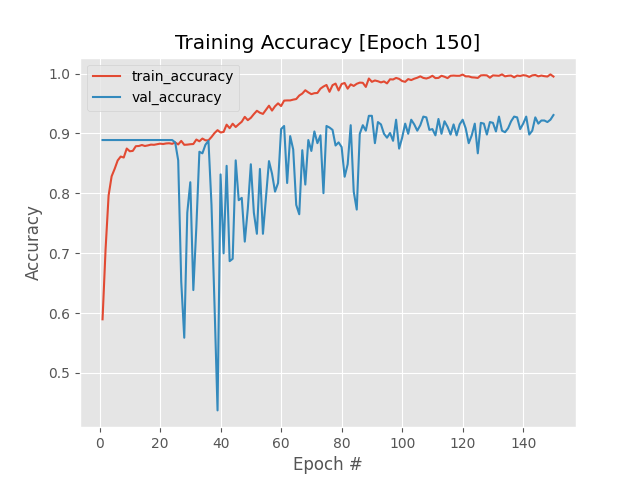
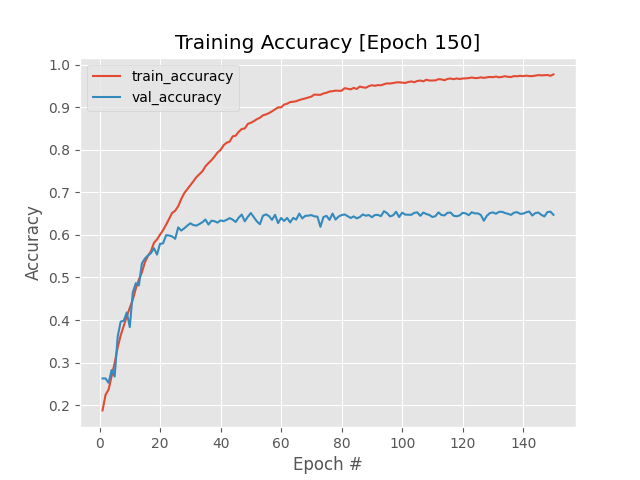
fix: 7 classes

diff --git a/trainingfacialexpression.py b/trainingfacialexpression.py
@@ -43,7 +43,7 @@ data = data.astype("float") / 255.0
 
 # convert the labels from integers to vectors
 le = LabelEncoder().fit(labels)
-labels = to_categorical(le.transform(labels), 2)                  #分类数要改！！！！！！！！！
+labels = to_categorical(le.transform(labels), 7)                  #分类数要改！！！！！！！！！
 
 # account for skew in the labeled data
 classTotals = labels.sum(axis=0)
@@ -56,11 +56,11 @@ classWeight = classTotals.max() / classTotals
 
 # initialize the model
 print("[INFO] compiling model...")
-model = vgg16.build(width=TARGET_WIDTH,height=TARGET_HEIGHT, depth=1, classes=2)
+model = vgg16.build(width=TARGET_WIDTH,height=TARGET_HEIGHT, depth=1, classes=7)
 model.build(input_shape=(28,28,1,7))
 model.summary()
 
-opt = tf.keras.optimizers.Adamax(lr=LR_INIT, beta_1=0.9, beta_2=0.999, epsilon=1e-07, name='Adamax')
+opt = tf.keras.optimizers.Adamax(learning_rate=LR_INIT, beta_1=0.9, beta_2=0.999, epsilon=1e-07, name='Adamax')
 #opt = tf.keras.optimizers.Adagrad(learning_rate=LR_INIT, initial_accumulator_value=0.1, epsilon=1e-07,name='Adagrad')
 model.compile(loss="categorical_crossentropy", optimizer=opt,
               metrics=["accuracy"])
